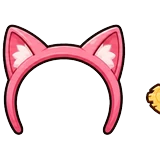
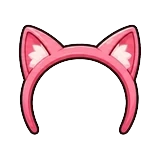
修貓耳髮箍/草帽圖片被切：清雜訊+置中留白
貓耳髮箍右下有黃色雜訊塊(貼右邊造成切到假象)→清掉整塊;草帽左邊貼邊。
兩張重框:裁內容→縮至四邊留12px→置中於160x160。dhCard 圖片 ?v=2→3 破快取。

diff --git a/village-web/index.html b/village-web/index.html
@@ -103,7 +103,7 @@
 <script src="qreport.js?v=1"></script>
 <!-- 帳號前綴：生活區資料(種田/牧場/造型/裝備)依登入帳號(child_id)分開存，同台手機不同帳號不互撞。純前端，不碰後端/48b09。 -->
 <script>window.accNS=function(k){try{var c=localStorage.getItem('eduarena_demo_child_id');return k+'::'+(c||'guest');}catch(e){return k+'::guest';}};</script>
-<script src="shop.js?v=111"></script>
+<script src="shop.js?v=112"></script>
 <script src="farm.js?v=15"></script>
 <script src="crop.js?v=8"></script>
 <script src="play_limit.js?v=5"></script>

diff --git a/village-web/shop.js b/village-web/shop.js
@@ -2562,7 +2562,7 @@
   }
   function dhCard(opts) {
     return `<div class="dh-card${opts.sel ? " sel" : ""}${opts.ro ? " ro" : ""}" data-cat="${opts.cat || ""}" data-id="${opts.id || ""}">
-        <img src="${opts.img}?v=2" alt="${opts.name}" loading="lazy" draggable="false">
+        <img src="${opts.img}?v=3" alt="${opts.name}" loading="lazy" draggable="false">
         <div class="dh-nm">${opts.name}</div>${opts.sub ? `<div class="dh-sub2">${opts.sub}</div>` : ""}</div>`;
   }
   function dhRender(ov) {
